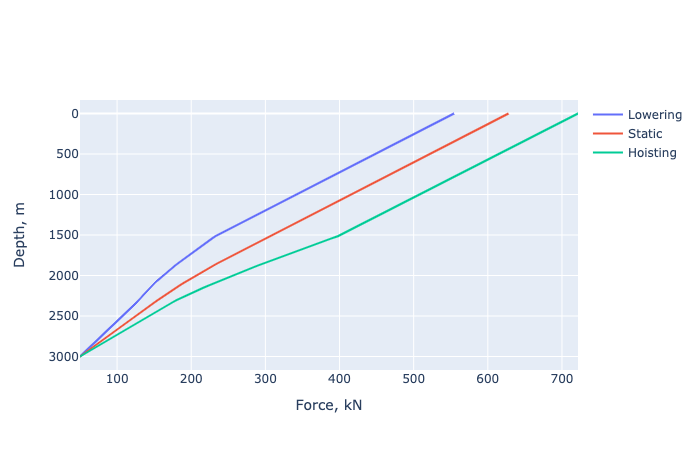
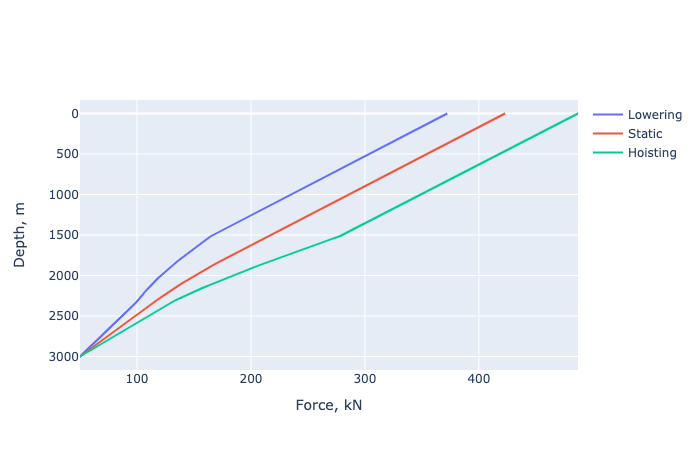
Rearrange inputs/description. Fix units issue. Prepare new release: patch version v0.0.8

diff --git a/torque_drag/main.py b/torque_drag/main.py
@@ -1,22 +1,12 @@
 from math import pi, sin, cos, radians
 
 
-def calc(well, dimensions, densities=None, case="all", fric=0.24, wob=0, tbit=0, torque_calc=False):
+def calc(trajectory, dimensions, densities=None, case="all", fric=0.24, wob=0, tbit=0, torque_calc=False):
     """
     Function to generate the torque and drag profiles. Model Source: SPE-11380-PA
 
     Arguments:
-        well: a well object (well_profile package) with:
-            rhod (drill string density),
-            r1 (inner diameter of drill string),
-            r2 (outer diameter of drill string),
-            r3 (diameter of the first casing layer or borehole),
-            rhof (fluid density),
-            rhod (density of drill pipe),
-            wob (weight on bit),
-            tbit (torque on bit),
-            azimuth (for each segment) and
-            inclination (for each segment).
+        trajectory: a trajectory object from well_profile library
         dimensions: dict for dimensions {'od_pipe': , 'id_pipe': , 'length_pipe': , 'od_annular': }
         densities: dict for densities {'rhof': 1.3, 'rhod': 7.8}
         case: "lowering", "static", "hoisting" or "all"
@@ -29,13 +19,13 @@ def calc(well, dimensions, densities=None, case="all", fric=0.24, wob=0, tbit=0,
         object with drag force and torque in kN and kN*m
     """
 
-    well = set_conditions(well, dimensions, densities, wob, tbit)
+    well = set_conditions(trajectory, dimensions, densities, wob, tbit)
 
     unit_pipe_weight = well.rhod * 9.81 * pi * (well.r2 ** 2 - well.r1 ** 2)
-    area_a = pi * ((well.r3 ** 2) - (well.r2 ** 2))
-    area_ds = pi * (well.r1 ** 2)
+    area_a = pi * ((well.r3 ** 2) - (well.r2 ** 2))     # annular area in m2
+    area_ds = pi * (well.r1 ** 2)       # drill string inner area in m2
     buoyancy = [1 - ((x * area_a) - (x * area_ds)) / (well.rhod * (area_a - area_ds)) for x in well.rhof]
-    w = [unit_pipe_weight * y * x for x, y in zip(buoyancy, well.deltaz)]
+    w = [unit_pipe_weight * y * x for x, y in zip(buoyancy, well.deltaz)]       # in N
     w[0] = 0
 
     if type(fric) is not list:
@@ -137,7 +127,7 @@ def calc(well, dimensions, densities=None, case="all", fric=0.24, wob=0, tbit=0,
     return Result()
 
 
-def set_conditions(well, dimensions, densities=None, wob=0, tbit=0):
+def set_conditions(trajectory, dimensions, densities=None, wob=0, tbit=0):
 
     wob *= 1000
     tbit *= 1000
@@ -147,23 +137,23 @@ def set_conditions(well, dimensions, densities=None, wob=0, tbit=0):
 
     class NewWell(object):
         def __init__(self):
-            self.r1 = dimensions['id_pipe'] / 2
-            self.r2 = dimensions['od_pipe'] / 2
-            self.r3 = dimensions['od_annular'] / 2
-            self.rhod = densities['rhod']
+            self.r1 = dimensions['id_pipe'] / 2 / 39.37
+            self.r2 = dimensions['od_pipe'] / 2 / 39.37
+            self.r3 = dimensions['od_annular'] / 2 / 39.37
+            self.rhod = densities['rhod'] * 1000
             self.deltaz = [0]
-            for x in range(1, len(well.md)):
-                self.deltaz.append(well.md[x] - well.md[x-1])
+            for x in range(1, len(trajectory.md)):
+                self.deltaz.append(trajectory.md[x] - trajectory.md[x-1])
             self.zstep = len(self.deltaz)
-            self.rhof = densities['rhof']
             if type(densities['rhof']) is not list:
-                self.rhof = [densities['rhof']] * self.zstep
-            self.wob = wob
-            self.tbit = tbit
-            self.rhof = self.rhof
-            self.azimuth = well.azimuth
-            self.tvd = well.tvd
-            self.md = well.md
-            self.inclination = well.inclination
+                self.rhof = [densities['rhof'] * 1000] * self.zstep
+            else:
+                self.rhof = densities['rhof'] * 1000    # in kg/m3
+            self.wob = wob      # in N
+            self.tbit = tbit        # in Nm
+            self.azimuth = trajectory.azimuth
+            self.tvd = trajectory.tvd
+            self.md = trajectory.md
+            self.inclination = trajectory.inclination
 
     return NewWell()

diff --git a/setup.py b/setup.py
@@ -5,7 +5,7 @@ with open("README.md", "r") as fh:
 setup(
     name='torque_drag',
     packages=['torque_drag'],
-    version='0.0.7',
+    version='0.0.8',
     license='LGPL v3',
     description='Torque and Drag Calculation',
     long_description=long_description,

diff --git a/docs/source/calculations.rst b/docs/source/calculations.rst
@@ -29,13 +29,13 @@ Drag Force
 .. code-block:: python
 
     >>> print(result.force['lowering']))
-    [554.2991696028456, 547.8493549353179, 541.3995402677903, ...]
+    [372.2971700118521, 368.13599093625027, 363.97481186064846, ...]
 
     >>> print(result.force['static']))
-    [627.9312760426308, 621.4814613751031, 615.0316467075754, ...]
+    [422.85963348870627, 418.69845441310446, 414.53727533750265, ...]
 
     >>> print(result.force['hoisting']))
-    [721.6322636958221, 715.1824490282944, 708.7326343607667, ...]
+    [486.97807188086904, 482.81689280526723, 478.6557137296654, ...]
 
 
 Torque
@@ -44,10 +44,10 @@ Torque
 .. code-block:: python
 
     >>> print(result.torque['lowering']))
-    [215.67223948951664, 215.67223948951664, 215.67223948951664, ...]
+    [52.88965056700336, 52.88965056700336, 52.88965056700336, ...]
 
     >>> print(result.torque['static']))
-    [236.58941229661033, 236.58941229661033, 236.58941229661033, ...]
+    [53.24879605055506, 53.24879605055506, 53.24879605055506, ...]
 
     >>> print(result.torque['hoisting']))
-    [260.8272222196797, 260.8272222196797, 260.8272222196797, ...]
+    [53.66437608286427, 53.66437608286427, 53.66437608286427, ...]
